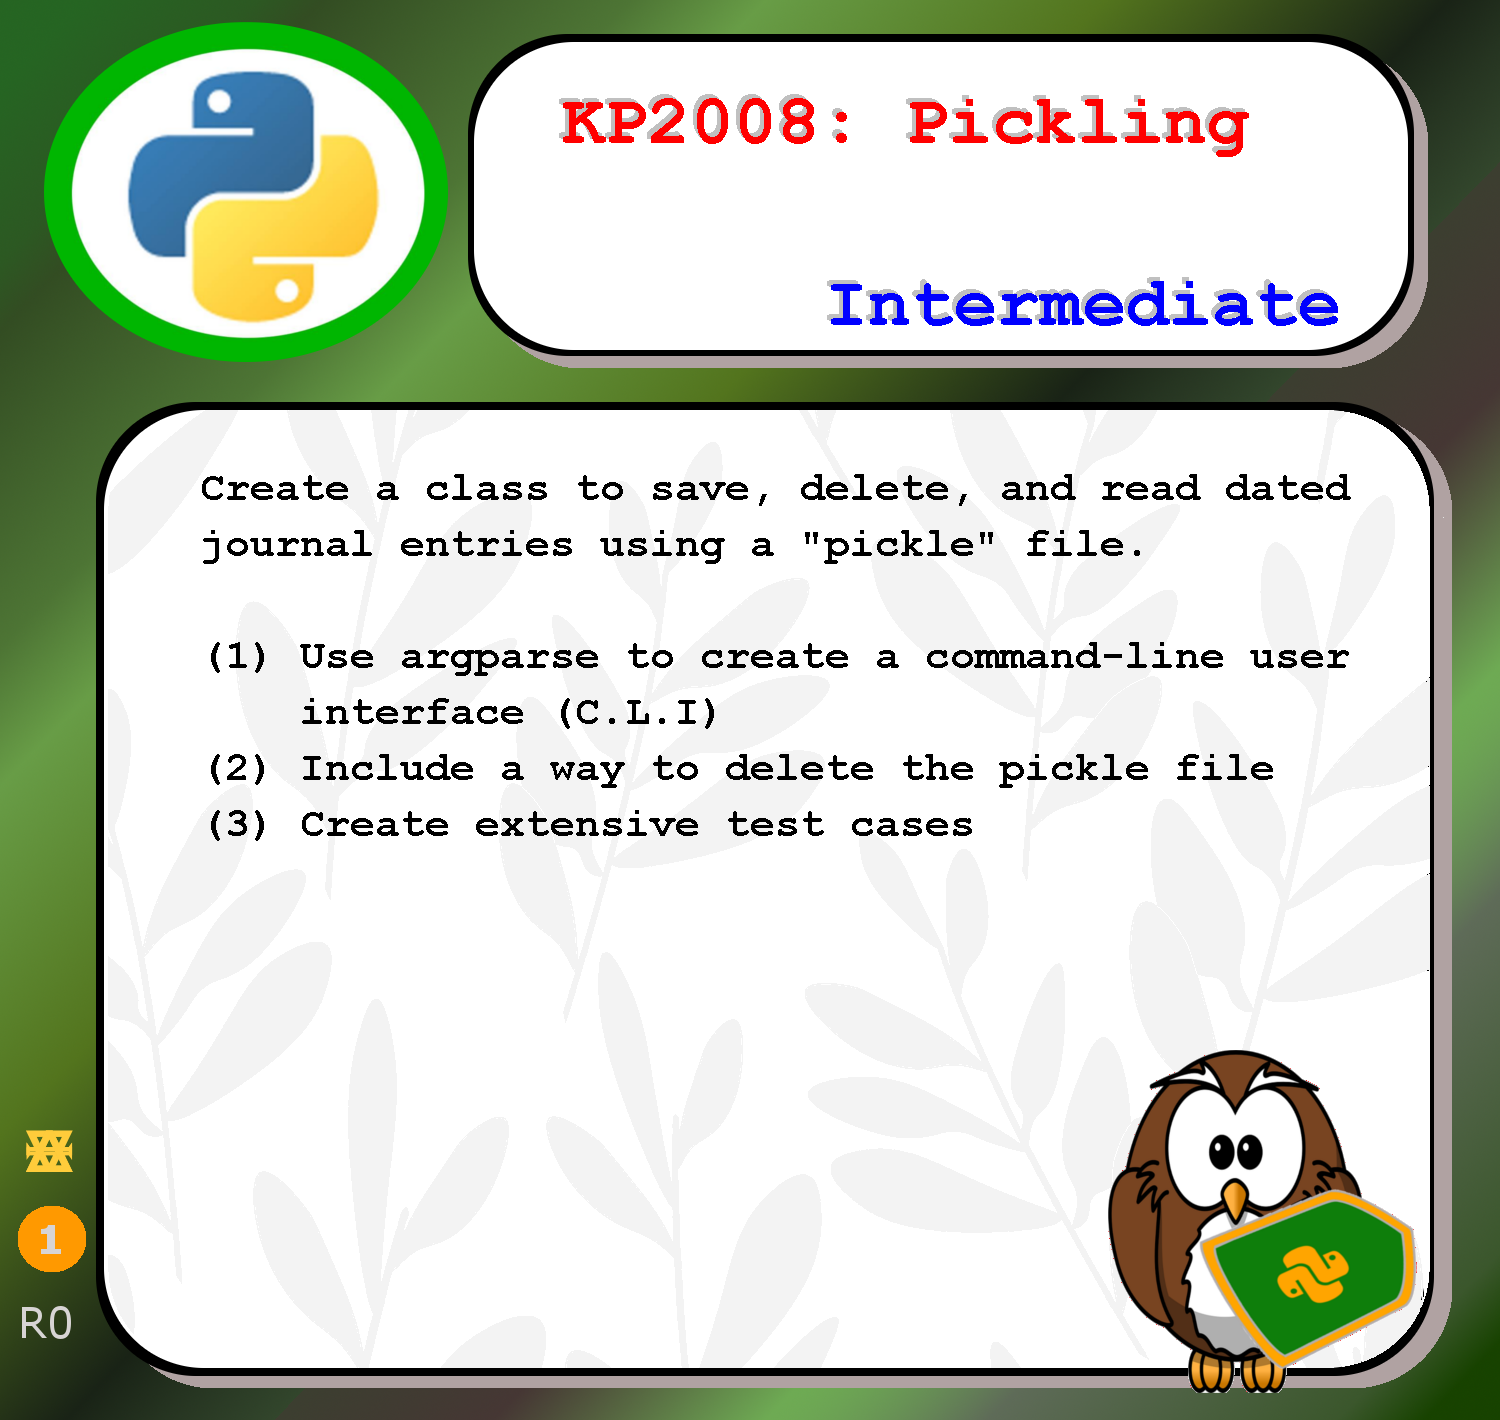
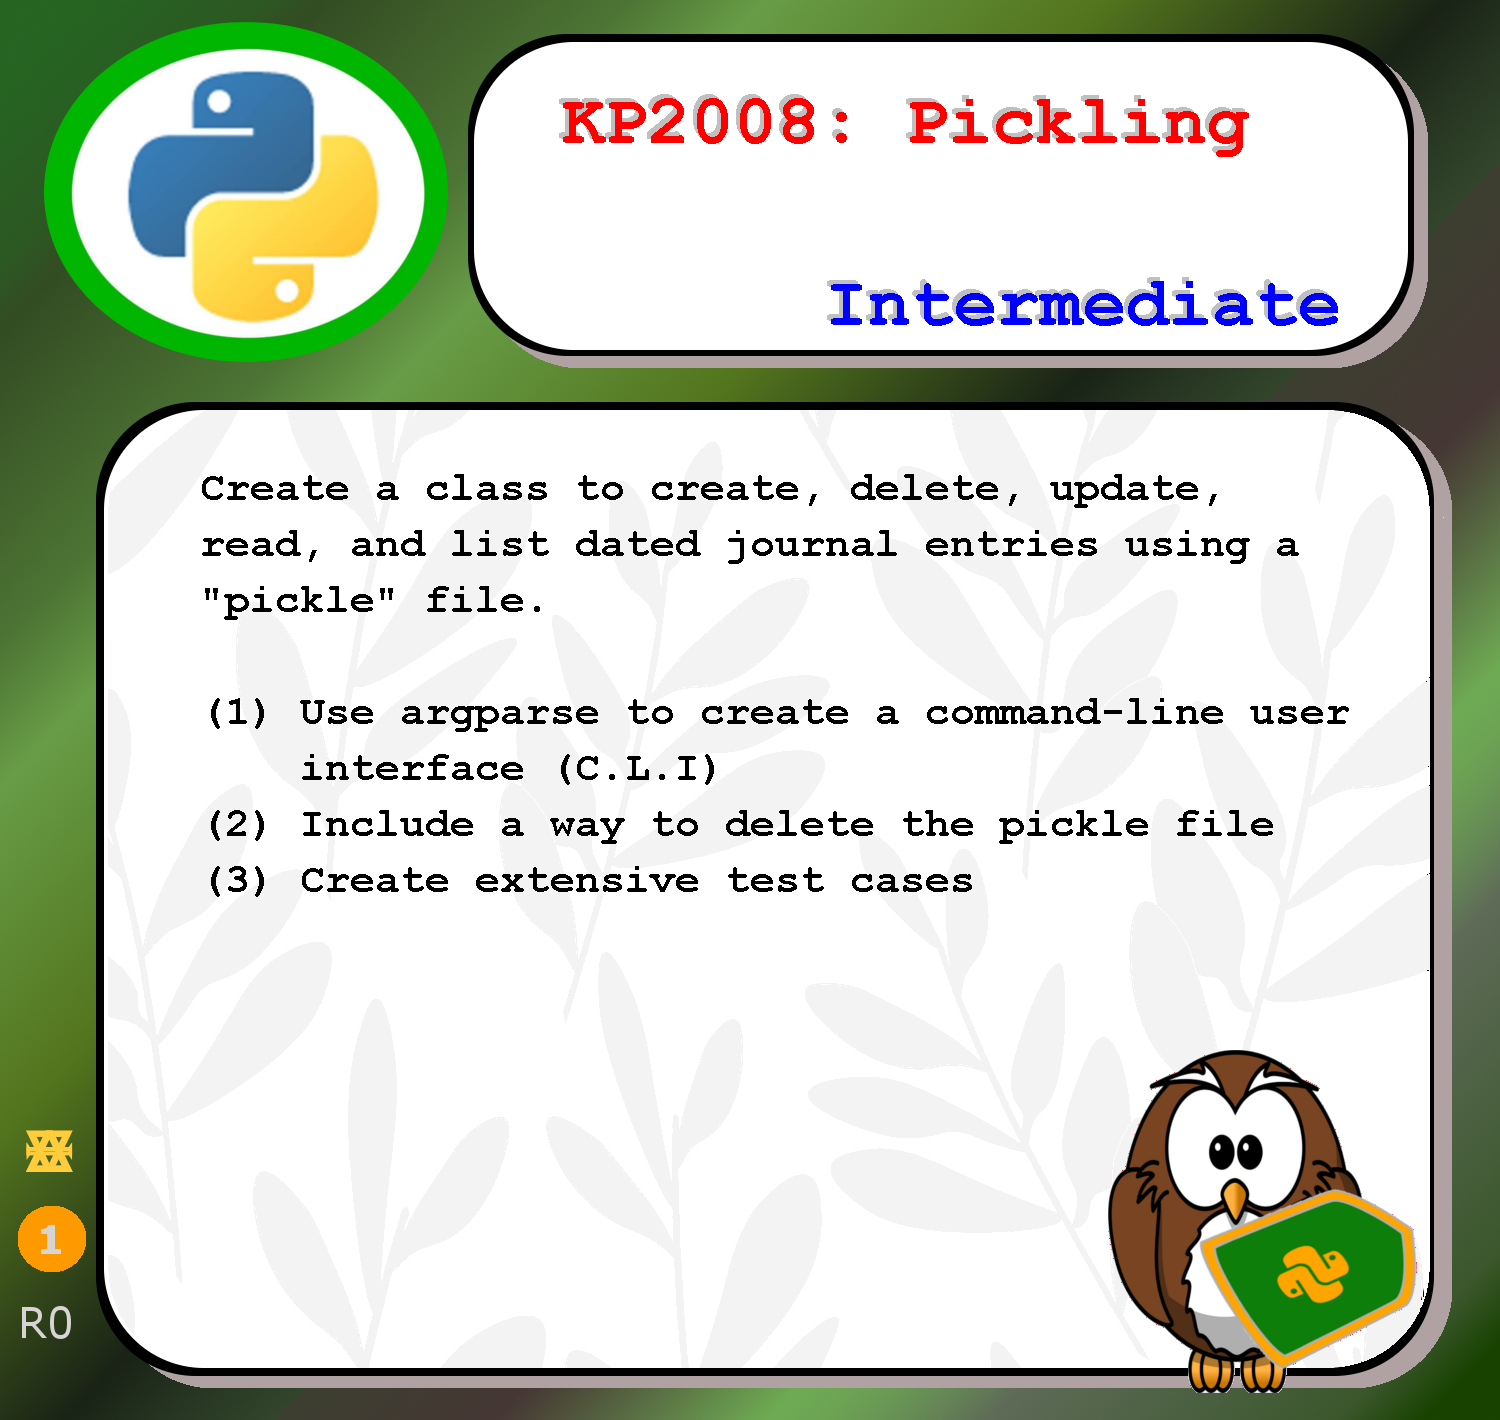
Killer project - Can you do it in a day?
Takes awhile to complete this one!

diff --git a/CardGame/QuestProjects/KP2008_tc.py b/CardGame/QuestProjects/KP2008_tc.py
@@ -1,0 +1,200 @@
+#!/usr/bin/env python3
+
+# Nagy's PyQuest Project Collection
+# Some inspiration to assist with your solution!
+# Soft9000.com
+# Groups:
+#    https://www.facebook.com/PythonVideo/
+#    https://www.facebook.com/groups/pyquest
+
+'''
+*****
+KP2008: Pickling
+Create a class to create, delete, update,
+read, and list dated journal entries using
+a "pickle" file.
+
+(1) Use argparse to create a command-line user 
+    interface (C.L.I)
+(2) Include a way to delete the pickle file
+(3) Create extensive test cases
+'''
+import time
+import pickle
+import os.path
+
+class Logger:
+
+    def create(self, line)->bool:
+        '''Date-stamp & append a line to the log file. '''
+        pass
+        
+    def read(self, which)->str:
+        '''Read a ones-based entry number. '''
+        pass
+        
+    def list(self, start:int, count:int)->list[str]:
+        '''List starting with a ones-based entry number. '''
+        pass
+        
+    def update(self, which:int, *values)->bool:
+        '''Update a ones-based entry number. '''
+        pass
+        
+    def delete(self, which:int)->bool:
+        '''Delete a ones-based entry number. '''
+        pass
+        
+    def reset(self):
+        '''Remove the entire log file. '''
+        pass
+
+    @staticmethod
+    def CLI(options):
+        '''Manage the CLI options. '''
+        pass
+
+def test_comp(*tr):
+    lines = Logger().load()
+    if len(*tr) != len(lines):
+        print("Error: len() mismatch.")
+        return False
+    for ss, line in enumerate(lines):
+        left = tr[0][ss]; right = line[12:]
+        if str(left) != str(right):
+            print(f"Error: [{left}] <> [{right}]")
+            return False
+    return True
+
+if __name__ == '__main__':
+    success = 0
+    errors = False
+    test = Logger()
+    test.reset()
+
+    data = ["This", "is a", "Test!"]
+    for line in data:
+        if not test.create(line):
+            errors = True
+    tr = test.load()
+    if not tr:
+        errors = True
+        
+    if len(tr) != len(data):
+        print(len(tr), len(data))
+        errors = True
+
+    for ss in range(len(data)):
+        test.delete(1)
+        data.pop(0)
+        comp = test.load()
+        if len(comp) != len(data):
+            errors = True
+
+    if test.load() != []:
+        print(test.load(),"?")
+        errors = True
+
+    # Report
+    if not errors:
+        print("Testing Success")
+        success += 1
+    else:
+        print("Error(s) detected")
+
+    import argparse
+    parser = argparse.ArgumentParser(prog='Logger')
+    group = parser.add_mutually_exclusive_group()
+    group.add_argument("-l", "--list",
+                        nargs=2,
+                        type=int,
+                        help="list message @# for #")
+    group.add_argument("-r", "--read",
+                        nargs=1,
+                        type=int,
+                        help="show message")
+    group.add_argument("-d", "--delete",
+                        nargs=1,
+                        type=int,
+                        help='delete entry #')
+    group2 = parser.add_argument_group()
+    group2.add_argument("-u", "--update",
+                        nargs=1,
+                        type=int,
+                        help="update log message")
+    group2.add_argument("-c", "--create",
+                        nargs=argparse.REMAINDER,
+                        help='log a "message"')
+    
+    delta_cases = [
+        [['-c', "We"],['We']],
+        [['-c', "another"],['We', 'another']],
+        [['-c', "test"],['We', 'another', 'test']],
+        [['-c', "case need"],['We', 'another', 'test', 'case need']],
+        [['-d', '2'],['We', 'test', 'case need']],
+        [['-d', '24'],['We', 'test', 'case need']],
+        [['-u', '1', '-c', "This", "is", "an", "update!"],['This is an update!', 'test', 'case need']],
+    ]
+    for test in delta_cases:
+        aobj = parser.parse_args(test[0])
+        Logger.CLI(aobj.__dict__)
+        if test_comp(test[1]):
+            print("Testing Success.")
+            success += 1
+        else:
+            print("Testing Failure.")
+
+    tr = Logger.CLI(parser.parse_args(['-l', '42', '5']).__dict__)
+    if(tr == Logger().load()[-1]):
+        print("Testing Success.")
+        success += 1
+    else:
+        print("Testing Failure.")
+
+    tr = Logger.CLI(parser.parse_args(['-l', '1', '3']).__dict__)
+    lines = Logger().load()
+    if(len(tr) != 3):
+        raise Exception("Error: Listing Range Error")
+    for ss in range(0, 3):
+        if tr[ss] != lines[ss]:
+            raise Exception(f"Listing: {tr[ss]} <> {lines[ss]}")
+    print("Testing Success")
+    success += 1
+
+    tr = Logger.CLI(parser.parse_args(['-r', '1']).__dict__)
+    if (tr[12:] == "This is an update!"):
+        print("Testing Success.")
+        success += 1
+    else:
+        print("Testing Failure.")
+
+    tr = Logger.CLI(parser.parse_args(['-r', '42']).__dict__)
+    if (not tr):
+        print("Testing Success.")
+        success += 1
+    else:
+        print("Testing Failure.")
+    
+    # Extended read-range testing
+    test = Logger()
+    test.reset()
+    if os.path.exists(test.file):
+        raise Exception("Error: File did not unlink.")
+    for data in range(100):
+        test.create(str(data))
+    tr = Logger.CLI(parser.parse_args(['-l', '50', '6']).__dict__)
+    lines = Logger().load()
+    if len(tr) != 6:
+        raise Exception("Error: Ranged list size error.")
+    for ss in range(6):
+        if lines[49 + ss] != tr[ss]:
+            raise Exception("Nope")
+    print("Testing Success")
+    success += 1
+    
+    message = "All Testing Success!"
+    if success != 13:
+        message = "Error: Some test cases did not work?"
+    sz = len(message)
+    print('\n','*'*sz, message,'*'*sz, sep='\n')
+
